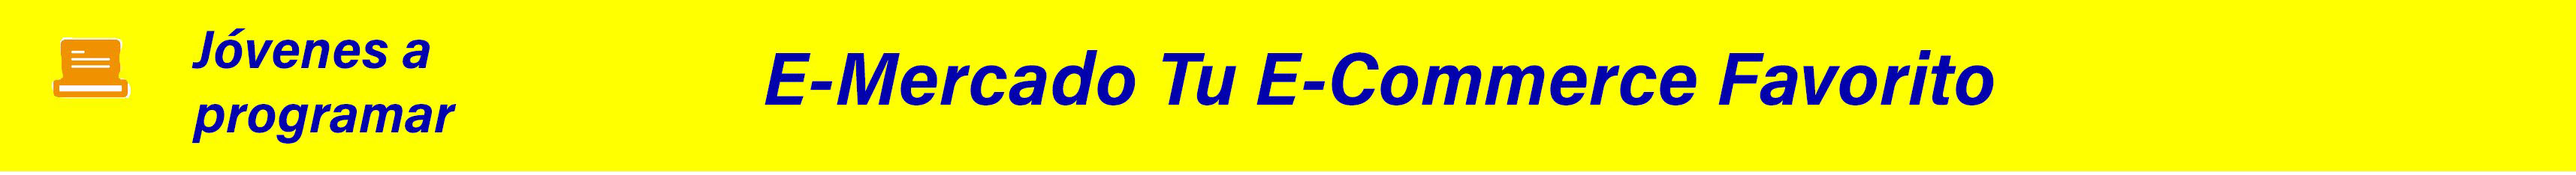
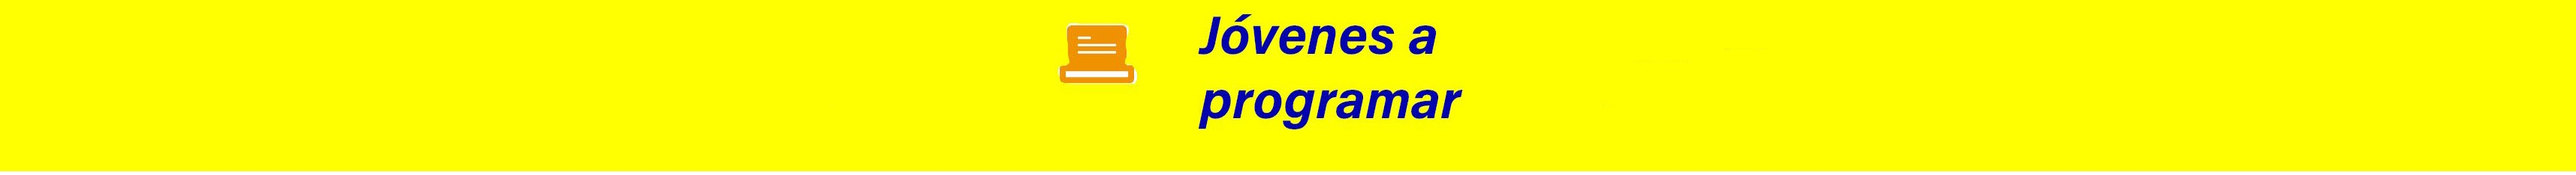
sasa

diff --git a/index.html b/index.html
@@ -5,14 +5,14 @@
   <meta http-equiv="Content-Type" content="text/html; charset=UTF-8">
   <meta name="viewport" content="width=device-width, initial-scale=1, shrink-to-fit=no">
   <title>eMercado - Todo lo que busques está aquí</title>
-
+  <link href="css/bootstrap.min.css" rel="stylesheet">  
   <link href="https://fonts.googleapis.com/css?family=Raleway:300,300i,400,400i,700,700i,900,900i" rel="stylesheet">
   <link href="css/bootstrap.min.css" rel="stylesheet">
   <link href="css/styles.css" rel="stylesheet">
 
 </head>
 
-<body>
+<body class="day-mode">
   
   <nav class="navbar navbar-expand-lg navbar-dark bg-dark p-1">
     <div class="container">
@@ -32,11 +32,22 @@
             <a class="nav-link" href="sell.html">Vender</a>
           </li>
           <li class="nav-item mx-5">
-              <a class="nav-link" href="my-profile.html" id="username"></a>
-            </li>
-            <li class="nav-item mx-5">
-              <button id="logoutButton" class="btn btn-danger" style="display: none;">Cerrar sesión</button>
-            </li>
+            <button id="boton-modo-noche" class="btn btn-secondary">Noche</button>
+          </li>
+          <div class="dropdown">
+            <a class="btn btn-secondary dropdown-toggle" href="#" role="button" id="dropdownMenuLink" data-bs-toggle="dropdown" aria-expanded="false">
+              
+            </a>
+            <ul class="dropdown-menu" aria-labelledby="dropdownMenuLink">
+              
+              <li><a class="dropdown-item" href="cart.html">Carrito</a></li>
+              <li><a class="dropdown-item" href="#">Algo más aqui</a></li>
+              <li><a class="dropdown-item" href="my-profile.html" id="username">Mi perfil</a></li>
+              <button id="logoutButton" class="btn" style="display: none;">Cerrar sesión</button>
+              <button id="toggle-mode">Cambiar Modo</button>
+
+            </ul>
+          </div>
         </ul>
       </div>
     </div>

diff --git a/registro.html b/registro.html
@@ -21,13 +21,13 @@
           <div class="datos">
                 <label for="nombre">Nombre:</label><br>
                 <input type="text" id="nombre" name="nombre" placeholder="Ingrese su nombre " required><br><br>
-                <span>Ingresalo como figura en su cedula de identidad</span><br><br><br><br>
+                <span>Como en su C.I</span><br><br>
             </div>
 
             <div class="datos">
                 <label for="apellido">Apellido:</label><br>
                 <input type="text" id="apellido" name="apellido" placeholder="Ingrese su apellido " required><br><br>
-                <span>Ingresalo como figura en su cedula de identidad</span><br><br><br><br>    
+                <span>Como en su C.I</span><br><br>  
           </div>
 
           <div class="datos">
@@ -38,19 +38,19 @@
           </div>
           <div class="datos">
                 <label for="contrasena" >Contraseña:</label><br>
-                <input type="password" id="contrasena" name="contrasena" placeholder="Ingrese su contraseña" required ><br>
+                <input type="password" id="contrasena" name="contrasena" placeholder="Ingrese su contraseña" required ><br><br>
           </div>
           
           
           <div class="form-group">
               <label>
                   <input type="checkbox" name="RememberMe" id="aceptarTerminos" required>
-                  Acepto los <a href="term.html">términos y condiciones</a>
+                  Acepto los <a href="term.html">términos y condiciones</a><br><br>
               </label>
           </div>
           
         
-          <div class="form-group"><input style="justify-content:center;" type="submit" value="Registrarse"></div>
+          <div class="boton"><input style="justify-content:center;" type="submit" value="Registrarse"></div><br>
          
           
       </form>

diff --git a/js/login.js b/js/login.js
@@ -25,6 +25,41 @@ document.addEventListener("DOMContentLoaded", function() {
       }
   });
 });
+const username = localStorage.getItem('username');
+
+function NbreBton(nombre) {
+  const dropdownButton = document.getElementById('dropdownMenuLink');
+  dropdownButton.textContent = nombre;
+}
+if (username) {
+    NbreBton(username);
+  }
+// controlen que no explote nada 
+  document.addEventListener("DOMContentLoaded", function () {
+    const toggleButton = document.getElementById("toggle-mode");
+    const body = document.body;
+    const elementsToChangeBackground = document.querySelectorAll(".my-bg-light"); 
+
+    toggleButton.addEventListener("click", function () {
+        if (body.classList.contains("day-mode")) {
+            body.classList.remove("day-mode");
+            body.classList.add("night-mode");
+            elementsToChangeBackground.forEach(element => {
+                element.classList.remove("bg-light");
+            });
+        } else {
+            body.classList.remove("night-mode");
+            body.classList.add("day-mode");
+            elementsToChangeBackground.forEach(element => {
+                element.classList.add("bg-light");
+            });
+        }
+    });
+});
+
+
+
+
   
   
   

diff --git a/css/registro.css b/css/registro.css
@@ -7,7 +7,7 @@ body{ /*le saca los bordes al banner*/
     display: flex;
     justify-content: center; 
     align-items: center; 
-    height: 80hv; 
+    height: 50hv; 
 }
 
 input[type="text"],
@@ -19,28 +19,29 @@ input[type="mail"] {
     background-color: #cee1ec; /* Cambia el color de fondo cuando está seleccionado */
     
 }
-
+.boton{
+    padding-left: 20%;
+    border-radius: 5%;
+}
 .formulario{ /*es el bloque de los form*/
     font-family: Arial, Helvetica, sans-serif;
-    padding-top: 5%;
-    padding-bottom: 5%;
-    padding-left: 10%;
-    padding-right: 10%;
-    width: 60%;
-    height: 100%;
+    
+    width: 30%;
+    height: 60%;
     background-color: white;
-    align-content: stretch;
-    display: grid;
-    grid-template-columns: repeat(2, 1fr); 
-    grid-gap: 10px; 
+    display: table-column;
+    padding-left: 10%;
+    padding-top: 2%;
+    padding-bottom: 2%;
 }
 
 .reg{ /* titulo solo */
     font-family: Arial, Helvetica, sans-serif;
-    text-align: center; 
+    text-align: left; 
+    padding-left: 30%;
 }
   .banner img {
     width: 100%; /*el banner imagen*/
-    height: 70px;
+    height: 55px;
   }
-  
+

diff --git a/css/styles.css b/css/styles.css
@@ -225,4 +225,22 @@ button {
 button:hover {
   background-color: #56a0f0;
 }
+-------------------------------------------------------------------------------------------
+body.day-mode .bg-light {
+  background-color: #ffffff !important; /* Puedes usar !important si es necesario */
+  color: #000000 !important;
+}
 
+/* Estilos para el modo de noche */
+body.night-mode .bg-light {
+  background-color: #000000 !important;
+  color: #b6afaf !important;
+}
+body.night-mode .text-muted{
+  background-color: #000000 !important;
+  color: #818b8b;
+}
+body.day-mode .text-muted{
+  background-color: #f5f5f5 !important;
+  color: #000;
+}

diff --git a/login.html b/login.html
@@ -44,7 +44,7 @@
         
         <!-- Botón "Registrarme" que redirecciona a register.html -->
         <div class="form-group">
-            <a href="registro.html" class="btn btn-primary">Registrarme</a>
+            <a href="registro.html" class="btn btn-primary ">Registrarme</a>
         </div>
     </div>
 
